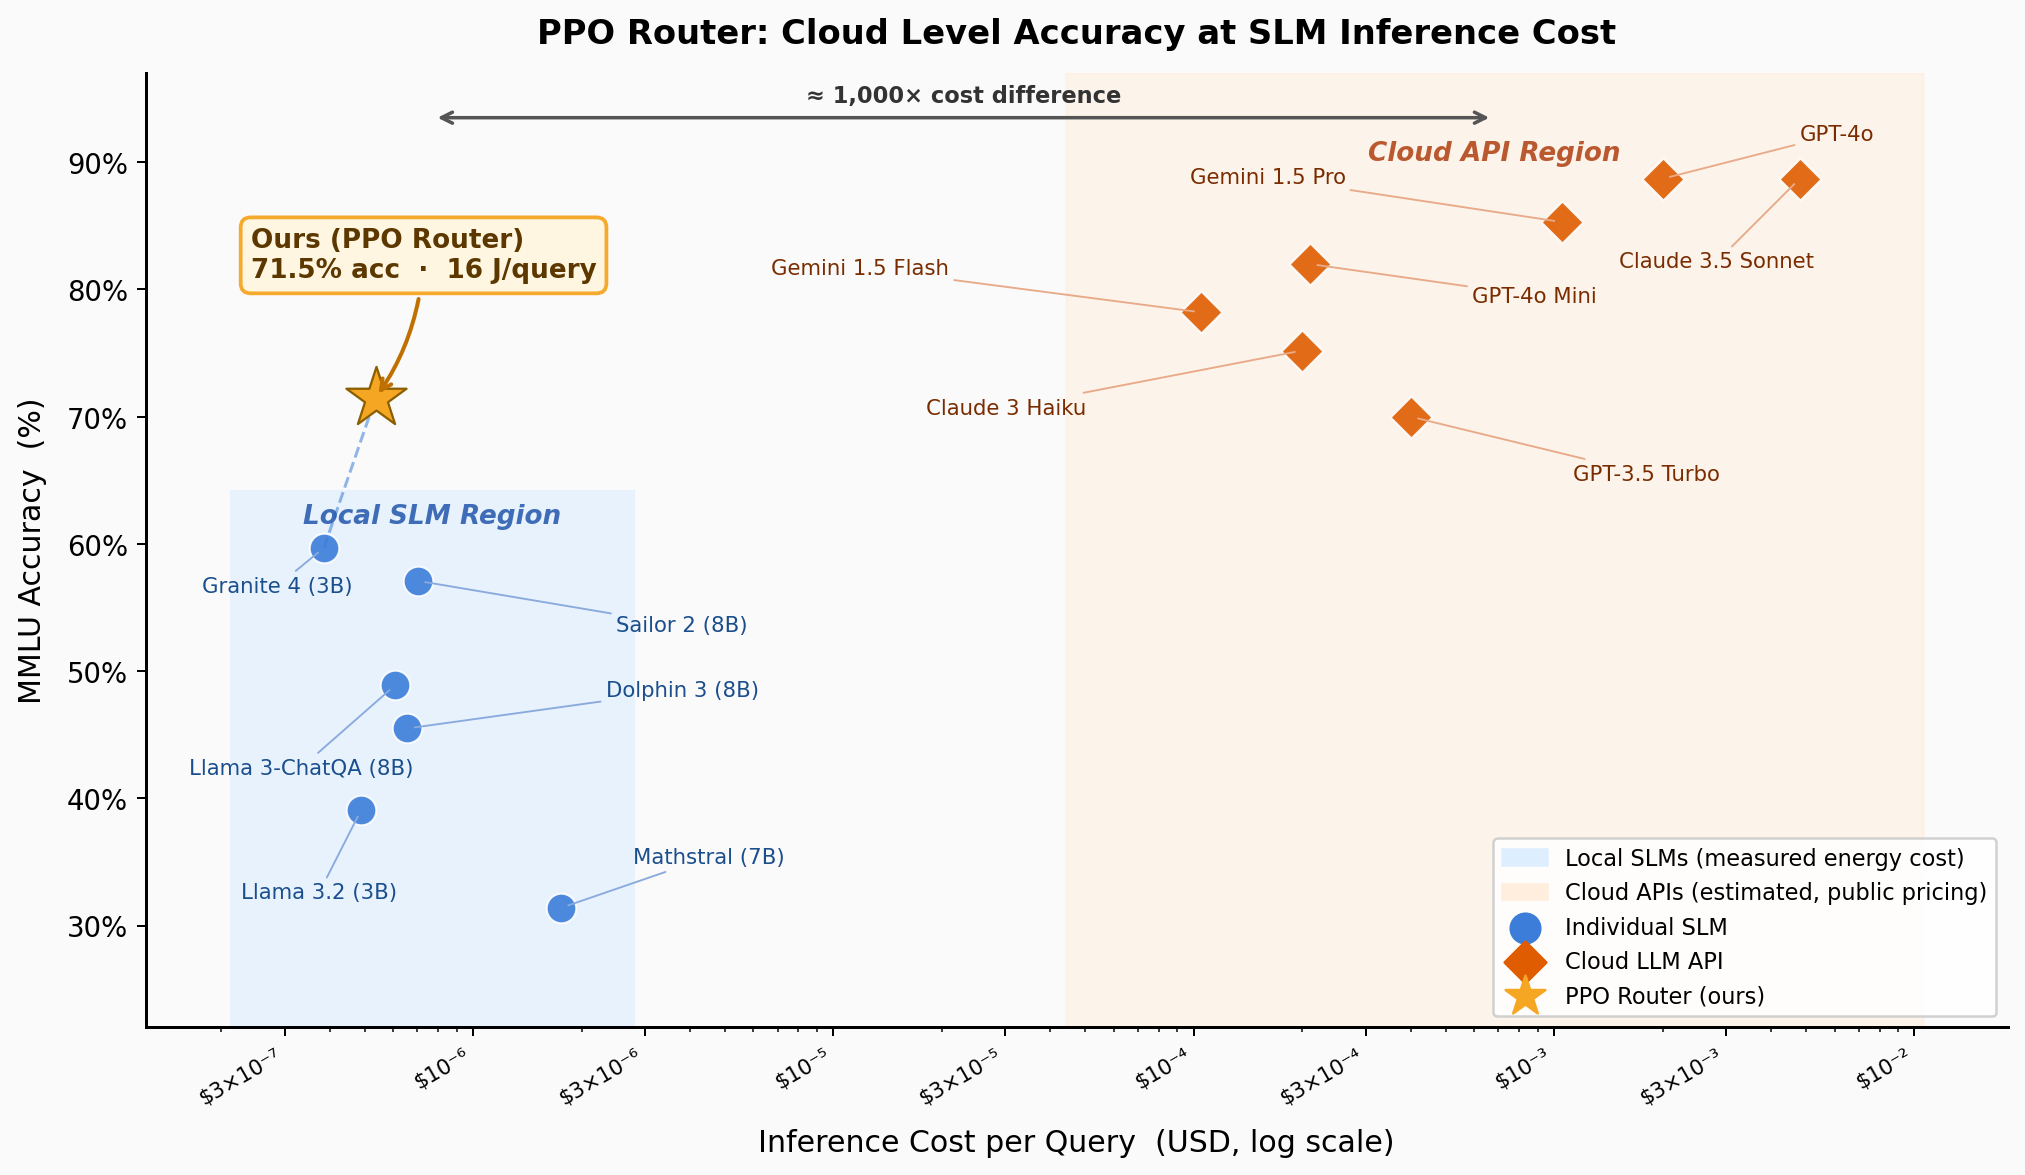
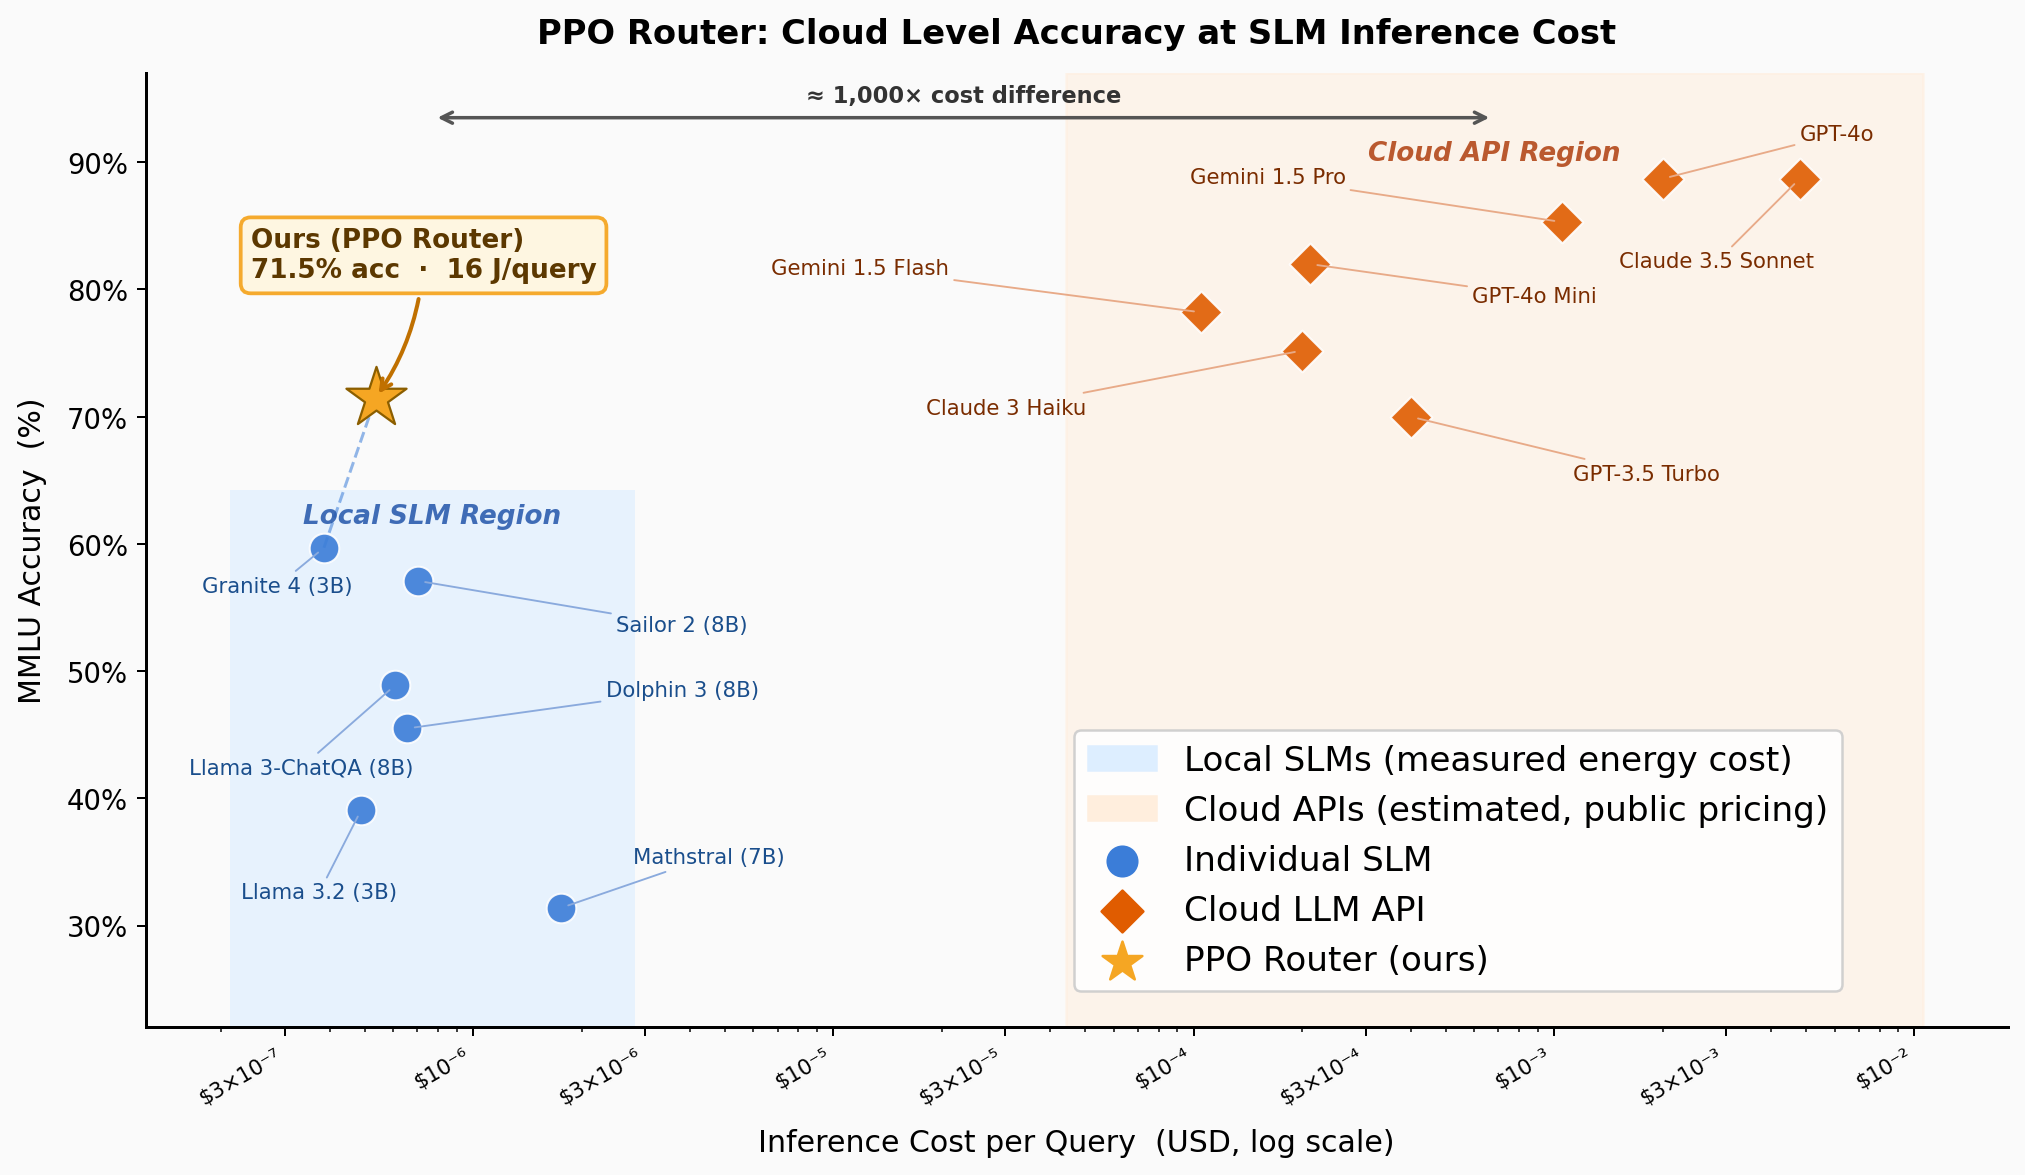
Teaser graphic p2

Changed region(s): [[0.5289, 0.6128, 0.9956, 0.8885]]

diff --git a/scripts/teaser_graphic.py b/scripts/teaser_graphic.py
@@ -215,7 +215,8 @@ legend_handles = [
     plt.scatter([], [], s=140, color=CLOUD_COLOR, marker='D', label='Cloud LLM API'),
     plt.scatter([], [], s=280, color=ROUTER_COLOR, marker='*', label='PPO Router (ours)'),
 ]
-ax.legend(handles=legend_handles, loc='lower right', fontsize=9,
+ax.legend(handles=legend_handles, loc='lower right',
+          bbox_to_anchor=(0.92, 0.02), fontsize=13.7,
           framealpha=0.9, edgecolor='#CCCCCC', frameon=True)
 
 # ── Cost-gap annotation ───────────────────────────────────────────────────────
